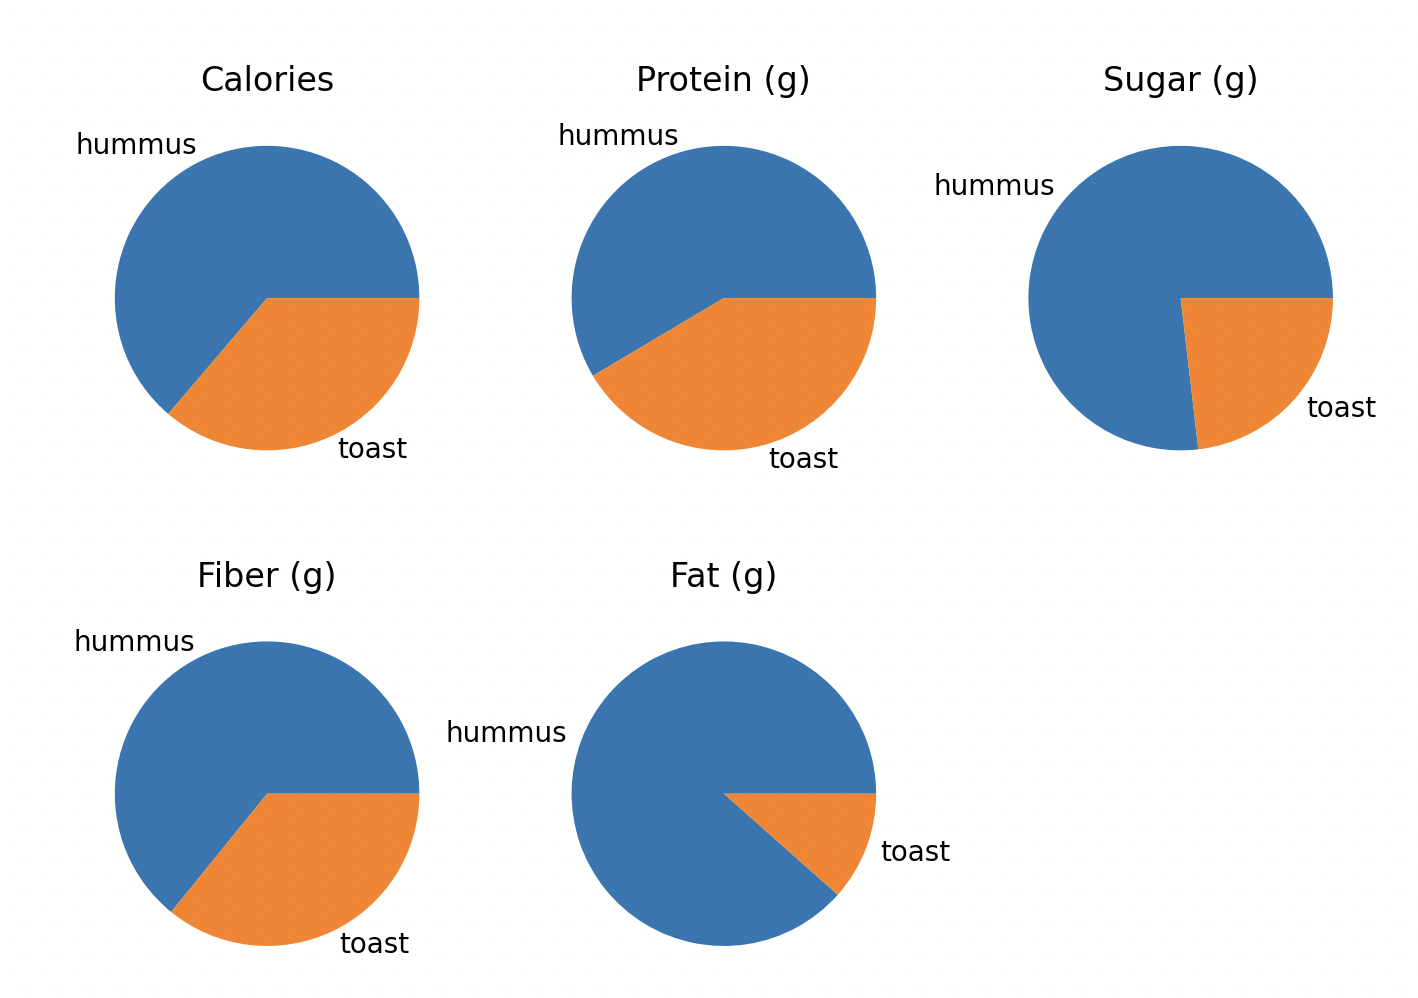
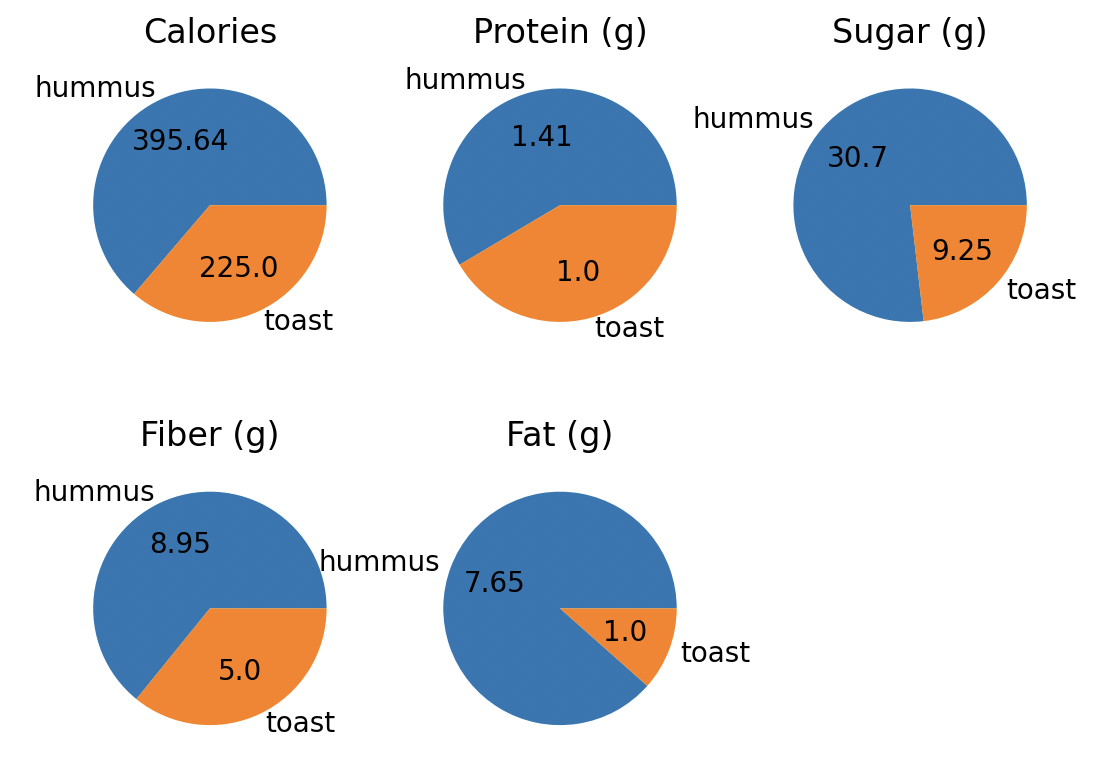
Add vals to pie slices, manual testing only

diff --git a/src/forkwise/display_meal_totals.py b/src/forkwise/display_meal_totals.py
@@ -127,22 +127,22 @@ def display_meal_breakdown(date_eaten: date, username: str, pw: str, path_to_con
     _, all_props = calc_daily_totals(meals_list=meals)
 
     daily_props = all_props[0]
-    
-    fig = plt.figure()
+
+    _ = plt.figure()
     ax00 = plt.subplot2grid((2,3),(0,0))
-    plt.pie(x=daily_props.cal_list,labels=daily_props.recipe_names)
+    plt.pie(x=daily_props.cal_list,labels=daily_props.recipe_names, autopct=lambda v: round(v*sum(daily_props.cal_list)/100,2))
     ax00.set_title("Calories")
     ax01 = plt.subplot2grid((2,3),(0,1))
-    plt.pie(x=daily_props.prot_list,labels=daily_props.recipe_names)
+    plt.pie(x=daily_props.prot_list,labels=daily_props.recipe_names, autopct=lambda v: round(v*sum(daily_props.prot_list)/100,2))
     ax01.set_title("Protein (g)")
     ax02 = plt.subplot2grid((2,3),(0,2))
-    plt.pie(x=daily_props.sugar_list,labels=daily_props.recipe_names)
+    plt.pie(x=daily_props.sugar_list,labels=daily_props.recipe_names, autopct=lambda v: round(v*sum(daily_props.sugar_list)/100,2))
     ax02.set_title("Sugar (g)")
     ax10 = plt.subplot2grid((2,3),(1,0))
-    plt.pie(x=daily_props.fiber_list,labels=daily_props.recipe_names)
+    plt.pie(x=daily_props.fiber_list,labels=daily_props.recipe_names, autopct=lambda v: round(v*sum(daily_props.fiber_list)/100,2))
     ax10.set_title("Fiber (g)")
     ax11 = plt.subplot2grid((2,3),(1,1))
-    plt.pie(x=daily_props.fat_list,labels=daily_props.recipe_names)
+    plt.pie(x=daily_props.fat_list,labels=daily_props.recipe_names, autopct=lambda v: round(v*sum(daily_props.fat_list)/100,2))
     ax11.set_title("Fat (g)")
 
     plt.show()
